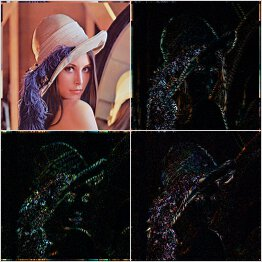
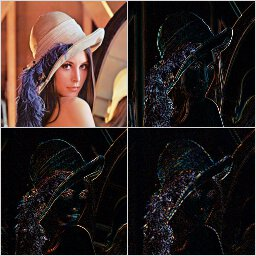
Updates, add a section on biothogonl wavelets

diff --git a/_posts/2019-01-31-wavelets-theory.md b/_posts/2019-01-31-wavelets-theory.md
@@ -10,7 +10,8 @@ title: Вейвлет-сжатие на пальцах
 части](https://habr.com/ru/post/169615/) многое нужно уже исправить и
 переработать. А вот [первая часть](https://habr.com/ru/post/168517/)
 всё ещё годится в качестве начального введения. Привожу её с
-небольшими исправлениями и дополнениями.
+исправлениями и дополнениями. В частности, я обновил
+иллюстрации и добавил небольшой раздел о биортогональных вейвлетах.
 
 Введение
 ========
@@ -327,6 +328,8 @@ $$\begin{pmatrix}
 &&&& \ddots
 \end{pmatrix}$$
 
+(Договоримся, что в пустых ячейках стоят нули.)
+
 То есть, исходный вектор просто обрабатывается независимо по парам.
 
 Фильтры
@@ -346,6 +349,9 @@ $$\begin{pmatrix}
 Полусуммы усредняют значения яркостей, то есть «отфильтровывают»
 случайные всплески значений. Можно считать, что это некоторый
 частотный фильтр, убирающий высокочастотную компоненту изображения.
+
+Фильтр, пропускающий низкие частоты, называется фильтром низких
+частот.
 
 Аналогично, разности «выделяют» среди значений межпиксельные
 «всплески» и устраняют константную составляющую. То есть, они
@@ -465,6 +471,18 @@ $$(1, 2, 3, 4), (3, 4, 5, 6), \dots$$
 
 $$(N-1, N, 1, 2).$$
 
+Дело в том, что каждой четвёрке мы ставим в соответствие пару чисел.
+Если в исходной последовательности всего 6 чисел, то не выходя за край
+мы сможем получить только 4 числа. По ним исходные 6 не восстановить.
+
+Чтобы выйти за край нужно сперва договориться, что за ним находится.
+Можно считать, что после последнего элемента последовательность
+начинается сначала (как мы только что и проделали подставив элементы
+1 и 2). А можно просто подставить нули. Правильный выбор соглашения
+об обработке границ влияет на качество их кодирования. Но так как
+границы составляют лишь малую часть изображения, то этот вопрос
+не такой уж и сильно влияет на общий принцип кодирования.
+
 Точно так же попробуем построить два фильтра: высокочастотный и
 низкочастотный. Каждую четвёрку будем заменять на два числа. Так как
 четвёрки перекрываются, то количество значений после преобразования не
@@ -531,7 +549,7 @@ c_4 - 2c_3 + 3c_2 - 4c_1 = 0.
 Система нелинейная, и чтобы найти решение нужно немного повозиться или
 воспользоваться какой-нибудь компьютерной программой.
 
-Решение имеет вид:
+Решение (одно из) имеет вид:
 
 $$\begin{cases}
 c_1 = \frac{1+\sqrt3}{4\sqrt2},\\
@@ -552,6 +570,24 @@ c_4 = \frac{1-\sqrt3}{4\sqrt2}.\\
 предлагается самостоятельно разгадать тайну этого буквенно-цифрового
 названия).
 
+О нормировке
+============
+
+Если посмотреть коэффициенты в
+[википедии](http://ru.wikipedia.org/wiki/%D0%92%D0%B5%D0%B9%D0%B2%D0%BB%D0%B5%D1%82%D1%8B_%D0%94%D0%BE%D0%B1%D0%B5%D1%88%D0%B8),
+то можно заметить, что они отличаются от тех, что получили мы. Дело в
+том, что в теории вейвлетов обычно используется нормировка не на 1, а
+на 2. То есть, произведение матрицы преобразования и матрицы обратного
+преобразования должно быть равно удвоенной единичной матрице, а не просто единичной.
+
+Если заменить в правой части второго уравнения 1 на 2 и решить систему,
+то получим те же коэффициенты, что и в Википедии.
+
+А, скажем, в статье [P. Getreuer Filter Coefficients to Popular
+Wavelets](http://read.pudn.com/downloads129/sourcecode/math/551883/Filter%20Coefficients%20to%20Popular%20Wavelets.PDF),
+в которой приводятся коэффициенты для распространённых вейвлетов,
+значения те же, что и у нас.
+
 Сравнение вейвлетов Хаара и Добеши
 ==================================
 
@@ -560,7 +596,11 @@ c_4 = \frac{1-\sqrt3}{4\sqrt2}.\\
 
 ![Двумерное преобразование]({{ site.url }}/assets/2019-01-31-wavelets-theory/lena-daubechies-1.jpg)
 
-Для наглядности сравним вейвлеты Хаара (слева) и Добеши (справа).
+Мы, конечно, можем не остановиться на этом, и потребовать устранения
+параболической составляющей (момент 2-го порядка) и так далее. В
+результате получим вейвлеты D6, D8 и другие.
+
+Для наглядности сравним вейвлеты Хаара (слева) и Добеши D8 (справа).
 
 ![Двумерное преобразование]({{ site.url }}/assets/2019-01-31-wavelets-theory/lena-haar-daubechies.jpg)
 
@@ -569,22 +609,184 @@ c_4 = \frac{1-\sqrt3}{4\sqrt2}.\\
 линий, соответствующим контрастным переходам на фоне. Это значит, что
 значения в этих областях ближе к нулю и их проще сжать.
 
-Другие вейвлеты
-===============
-
-Мы, конечно, можем не остановиться на этом, и потребовать устранения
-параболической составляющей (момент 2-го порядка) и так далее. В
-результате получим вейвлеты D6, D8 и другие.
-
-Чтобы не считать всё вручную, коэффициенты можно посмотреть в
-[википедии](http://ru.wikipedia.org/wiki/%D0%92%D0%B5%D0%B9%D0%B2%D0%BB%D0%B5%D1%82%D1%8B_%D0%94%D0%BE%D0%B1%D0%B5%D1%88%D0%B8).
-
-Добеши открыла весьма интересный способ получения коэффициентов этих
+Добеши предложила весьма интересный способ получения коэффициентов этих
 преобразований, но увы, это уже выходит за рамки нашей статьи.
+Мы не пытаемся построить теорию вейвлетов, а лишь выводим их из
+простых практических соображений.
 
-Разумеется, это только самые основы. На практике применяются
-более сложные, но и более эффективные подходы, такие как
-[лифтинг-схема](https://ru.wikipedia.org/wiki/%D0%A1%D1%85%D0%B5%D0%BC%D0%B0_%D0%BB%D0%B8%D1%84%D1%82%D0%B8%D0%BD%D0%B3%D0%B0).
+Биортогональные вейвлеты
+========================
+
+Разумеется, изложенные соображения могут быть различными в зависимости
+от задачи. Например, для простоты выполнения обратного преобразования
+мы потребовали, чтобы соответствующая матрица была ортогональной.
+Это, конечно, удобно, но коэффициенты такого преобразования
+несимметричны. Может, это слишком строгое требование?
+
+И действительно, можно для кодирования использовать неортогональную
+матрицу, но не произвольную, а то придётся считать обратную к ней. Мы
+постараемся выберать коэффициенты так, чтобы часть требований к
+обратной матрице выполнилась автоматически. Заодно сделаем
+коэффициенты фильтров высоких частот и фильтра низких частот
+симметричными.
+
+Рассмотрим следующее интересное вейвлет-преобразование, которое
+называется CDF 5/3. Он назван так по первым буквам фамилий — Коэн,
+Добеши и Фово. А цифры — это длины фильтров.
+
+$$H = \begin{pmatrix}
+   0 &  a_1 &  a_0 &  a_1 &    0 &    0 &      &      & \\
+   0 &  b_2 &  b_1 &  b_0 &  b_1 &  b_2 &      &      & \\
+     &      &    0 &  a_1 &  a_0 &  a_1 &      &      & \\
+     &      &    0 &  b_2 &  b_1 &  b_0 &  b_1 &  b_2 & \\
+     &      &      &      &      &      &      &      & \ddots
+\end{pmatrix}.$$
+
+Обратите внимание, что хотя длины фильтров (нули мы, конечно, в расчёт
+не берём) равны 3 и 5, сами фильтры симметричны и нам нужно найти лишь
+5 различных чисел.
+
+Обратное преобразование мы построим следующим хитрым образом из тех же
+самых чисел просто переставив их и поменяв знаки.
+
+$$\bar{H} = \begin{pmatrix}
+\phantom{-}b_2 &              0 &              0 &              0 & \\
+          -b_1 &              0 &              0 &              0 & \\
+\phantom{-}b_0 &           -a_1 & \phantom{-}b_2 &              0 & \\
+          -b_1 & \phantom{-}a_0 &           -b_1 &              0 & \\
+\phantom{-}b_2 &           -a_1 & \phantom{-}b_0 &           -a_1 & \\
+             0 &              0 &           -b_1 & \phantom{-}a_0 & \\
+             0 &              0 & \phantom{-}b_2 &           -a_1 & \\
+               &                &                &                & \ddots
+\end{pmatrix}.$$
+
+Такое странное на первый взгляд расположение обладает важными
+преимуществами. Во-первых для того, чтобы задать и матрицу
+преобразования, и обратную матрицу нужно лишь найти пять чисел, то
+есть мы должны записать систему из пяти уравнений. А во-вторых, при
+перемножении этих матриц некоторые произведения строк на столбцы сразу
+равны нулю. Это значит, что мы можем сэкономить пару строк в системе
+уравнений для каких-то полезных ограничений.
+
+Давайте посмотрим, какие ограничения нам нужны, чтобы вторая матрица
+была обратной к первой, то есть
+
+$$
+H \bar{H} = E =
+\begin{pmatrix}
+1 & 0 & \\
+0 & 1 & \\
+  &   & \ddots
+\end{pmatrix}.
+$$
+
+Скалярное произведение первой строки $$H$$ на первый стобец
+$$\bar{H}$$, второй строки на второй столбец и так далее должны быть
+равны 1:
+
+$$0 b_2 - a_1 b1 + a_0 b_0 - a_1 b_1 + 0 b_2 = 1,$$
+
+$$b_2 0 - b_1 a_1 + b_0 a_0 - b_1 a_1 + b_2 0 = 1.$$
+
+Заметьте, что это на самом деле одно и то же уравнение
+
+$$a_0 b_0 - 2 a_1 b_1 = 1.$$
+
+Для остальных строк и столбцов с одинаковыми номерами уравнения будут
+такими же.
+
+Остальные произведения строк и столбцов должны быть равны 0:
+
+$$a_1 0 - a_0 a_1 - a_1 a_0 - 0 a_1 \equiv 0,$$
+
+$$a_1 0 + a_0 b_2 - a_1 b_1 + 0 b_0 - 0 b_1 + 0 b_2 = 0,$$
+
+$$0 b_2 - b_2 b_1 + b_1 b_0 - b_0 b_1 + b_1 b_2 + b_2 0 \equiv 0,$$
+
+$$b_2 0 + b_1 0 + b_0 0 - b_1 a_1 + b_2 a_0 - 0 a_1 \equiv 0.$$
+
+Если отбросить тождества, то получаем два эквивалентных уравнения, то
+есть, фактически, лишь одно новое ограничение:
+
+$$a_0 b_2 - a_1 b_1 = 0.$$
+
+Итак, у нас уже два уравнения и пять неизвестных. То есть ещё три
+уравнения мы можем выбрать на своё усмотрение.
+
+Потребуем, чтобы фильтр высоких частот преобразования $$H$$
+(то есть, пропускающий высокие частоты) обнулял моменты нулевого и
+первого порядков:
+
+$$1 b_2 + 1 b_1 + 1 b_0 + 1 b_1 + 1 b_2 = 0,$$
+
+$$1 b_2 + 2 b_1 + 3 b_0 + 4 b_1 + 5 b_2 = 0.$$
+
+Легко убедиться, что это одно и то же уравнение:
+
+$$b_0 + 2 b_1 + 2 b_2 = 0.$$
+
+Того же потребуем и для преобразования $$\hbar{H}$$ (его называют дуальным к $$H$$):
+
+$$-1 a_1 + 2 a_0 - 3 a_1 = 0,$$
+
+то есть
+
+$$a_0 - 2 a_1 = 0.$$
+
+У нас осталось в запасе одно требование, но попробуем решить без него.
+Получаем систему уравнений:
+
+$$\begin{cases}
+a_0 b_0 - 2 a_1 b_1 = 1, \\
+a_0 b_2 - a_1 b_1 = 0, \\
+b_0 + 2 b_1 + 2 b_2 = 0, \\
+a_0 - 2 a_1 = 0.
+\end{cases}$$
+
+Решение этой системы:
+
+$$\begin{cases}
+a_1 = \frac12 a_0, \\
+b_0 = \frac3{4 a_0}, \\
+b_1 = -\frac1{4 a_0}, \\
+b_2 = -\frac1{8 a_0}.
+\end{cases}$$
+
+То есть, пятое уравнение, если бы мы его добавили, повлияло бы только
+лишь на нормировку. Ведь при применении преобразования все операции
+линейные. Значит $$a_0$$ для одного фильтра и $$\frac1{a_0}$$ для
+другого можно просто вынести за скобку.
+
+Если поискать коэффициенты для CDF 5/3, то в разных источниках
+нормировка разная. Возьмём для определённости $$a_0=\frac12$$.
+
+Тогда получаем:
+
+$$\begin{cases}
+a_0 = \frac12, \\
+a_1 = \frac14, \\
+b_0 = \frac32, \\
+b_1 = -\frac12, \\
+b_2 = -\frac14.
+\end{cases}$$
+
+В этом случае фильтр нижних частот будет сохранять среднее
+значение. Это очень полезно при расчётах на компьютере, чтобы не
+происходило переполнения. Правда, в худшем случае, если в
+последовательности будут все нули и одна единица, то фильтр верхних
+частот увеличит значение в полтора раза. Можно этого избежать,
+разделив все $$b_i$$ на 2. У нас сохранятся все свойства кроме
+нормировки произведения $$H \hbar{H}$$. Но это не такая и большая
+проблема, просто надо после обратного преобразования домножить
+результат на нужный коэффициент.
+
+Обратите также внимание, что все коэффициенты — это дроби, у которых в
+знаменателе степень двойки, а значит вычисления с такими
+коэффициентами можно очень эффективно реализовать на компьютере в
+двоичной системе.
+
+Получившееся преобразование благодаря своим интересным свойствам нашло
+применение в алгоритме сжатия изображений JPEG2000.
 
 Домашнее задание
 ================
@@ -606,11 +808,14 @@ c_4 = \frac{1-\sqrt3}{4\sqrt2}.\\
 
 Конечно, в этой статье не были рассмотрены очень многие интересные
 математические детали и практические применения
-вейвлет-преобразований. Но нельзя объять необъятное. Да и многое
-сложно объяснить не повышая градус матана. Надеюсь, что и написанное
-оказалось кому-то полезным.
-
-Спасибо за внимание!
+вейвлет-преобразований. На практике применяются более сложные, но и
+более эффективные подходы, такие как
+[лифтинг-схема](https://ru.wikipedia.org/wiki/%D0%A1%D1%85%D0%B5%D0%BC%D0%B0_%D0%BB%D0%B8%D1%84%D1%82%D0%B8%D0%BD%D0%B3%D0%B0).
+Разумеется, это только самые основы. И на самом деле вейвлеты
+конструируются не так, как описано. Но многое сложно объяснить не
+повышая градус матана. Надеюсь, что у читателя после прочтения этой
+статьи появилось общее представление о том, как используются вейвлеты
+в области сжатия изображений.
 
 Литература
 ==========
